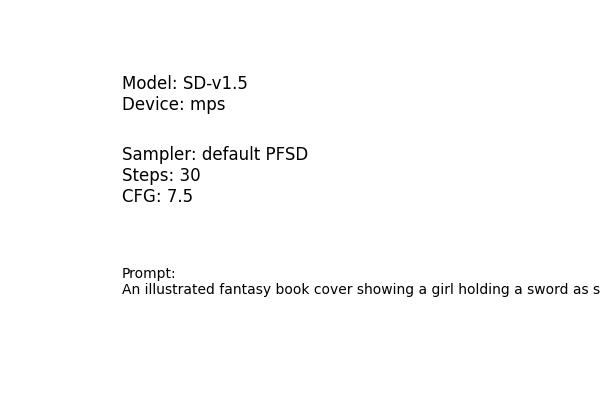
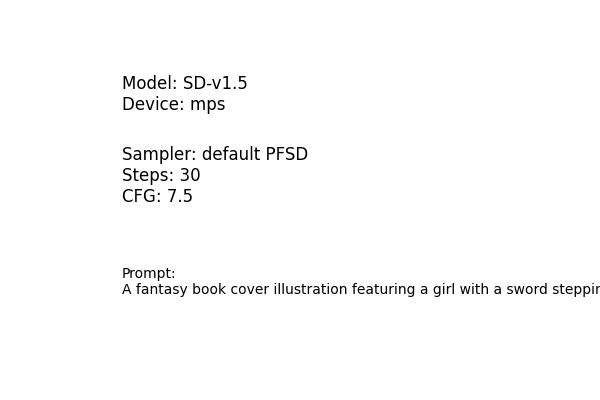
Updates

Changed region(s): [[0.21, 0.69, 1.0, 0.75]]

diff --git a/output/report.md b/output/report.md
@@ -1,38 +1,36 @@
-# 🎵 AI Redesigned Vinyl Album Cover: The Dark Side of the Moon
+# AI-Generated Vinyl Cover: The Dark Side of the Moon
 
-## 💼 Original Cover
+## Original Cover
 
 ![Original](original_cover.jpg)
 
 ---
 
-## 🎨 AI-Generated Variation
+## AI-Generated Cover
 
 ![AI Cover](generated_album_cover.jpg)
 
 ---
 
-## ⚙ Workflow & Technical Details
+## Technical Details
 
-**Model**: Stable Diffusion v1.5 (Hugging Face) on self-hosted setup
+**Model**: Stable Diffusion v1.5
 **Device**: mps
-**LoRA**: Retro Album Art aesthetic (optional, not used here)
-**Sampler/Backend**: default scheduler
+**Sampler**: default scheduler
 **Steps**: 30
 **CFG Scale**: 7.5
 
 **Prompt**:
-> An illustrated fantasy book cover showing a girl holding a sword as she steps through a radiant blue doorway set in the heart of an enchanted forest. The scene carries a sense of mystery and hope, with glowing fireflies, a misty backdrop, dramatic cinematic lighting, rich details, and a classic storybook art style.
+> A fantasy book cover illustration featuring a girl with a sword stepping through a glowing blue portal in an enchanted forest, with a mystical and hopeful atmosphere, fireflies, misty background, cinematic lighting, and a classic storybook style.
 
-## 📸 Pipeline Configuration Screenshot
+## Pipeline Configuration
 
 ![Pipeline Setup](pipeline_screenshot.jpg)
 
-## 🧰 Resources Used
+## Resources
 
-- **Interface**: `diffusers` Python pipeline (self-hosted, no external API)
-- **Hardware**: Apple Silicon MPS (or CPU fallback), ~16 GB RAM
+- **Interface**: diffusers Python pipeline
+- **Hardware**: Apple Silicon MPS or CPU, ~16 GB RAM
 - **Model**: Stable Diffusion v1.5
-- **LoRA**: Retro aesthetic LoRA file (not loaded in this run)
 
-👉 Folder `output/` contains the generated images and `report.md`.
+Output saved in `output/` folder.
